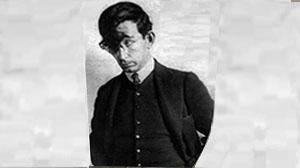
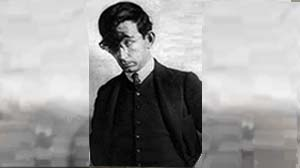
Adding author - Atanas Dalchev

diff --git a/lib/info_assets/dalchev_compositions.dart b/lib/info_assets/dalchev_compositions.dart
@@ -1,0 +1,108 @@
+import 'package:matura_lit/models/author.dart';
+
+import '../models/composition.dart';
+
+List<Composition> dalchevCompositionsList() {
+  return [
+    Composition(
+        id: 1,
+        name: 'Стаята',
+        genre: 'Стихотворение',
+        artisticShapes: [
+          'Стаята',
+          'Огледалото - символ на прозрението',
+          'Спрелият часовник',
+          'Портрети',
+          'Прах',
+          'Есенно слънце',
+          'Махалото',
+          'Стената',
+          'Заключената врата'
+        ],
+        mainSubject:
+            'Условността а съществуването и завръщането към един отминал свят'),
+    Composition(
+        id: 2,
+        name: 'Болница',
+        genre: 'Стихотворение',
+        mainSubject: 'Човешкия живот като път към смъртта',
+        artisticShapes: [
+          'Прозорците',
+          'Часовникът',
+          'Белите Стени',
+          'Белите легла',
+          'Есента'
+        ]),
+    Composition(
+      id: 3,
+      name: 'Прозорец',
+      genre: 'Стихотворение',
+      mainSubject:
+          'красотата и детската чистота са илюзия, възможна само в света на въображението',
+      artisticShapes: [
+        'Прозорецът',
+        'Децата',
+        'Сребърната гора',
+        'Въображението'
+      ],
+    ),
+    Composition(
+      id: 4,
+      name: 'Къщата',
+      genre: 'Стихотворение',
+      mainSubject:
+          'Липсващите връзки на самотника със заобикалящия го свят и невъзможността къщата да се превърне в дом ',
+      artisticShapes: [
+        'Лирическият аз',
+        'Черната сянка',
+        'Мъртвият',
+        'Мрака',
+        'Вятърът',
+        'Вратата'
+      ],
+    ),
+    Composition(
+        id: 5,
+        name: 'Повест',
+        genre: 'Стихотворение',
+        mainSubject: 'Проблема за неизживяния живот',
+        artisticShapes: [
+          'Къщата',
+          'Портретите',
+          'Часовникът',
+          'Огледалото',
+          'Лирическият аз'
+        ]),
+    Composition(
+      id: 6,
+      name: 'Книгите',
+      genre: 'Стихотворение',
+      mainSubject:
+          'Книгата като възможност човека да съзерцава, но същевременно и да отнемат чистотата на емоциите и изживяването на чувствата',
+      artisticShapes: ['Денят', 'Нощта', 'Книгите'],
+    ),
+    Composition(
+      id: 7,
+      name: 'Камък',
+      genre: 'Стихотворение',
+      mainSubject: '"Завистта" на тленния човек към вечния предмет',
+      artisticShapes: [
+        'Камъкът, боговоете, Плътта',
+        'Есента',
+        'Лятото',
+        'Гранитът'
+      ],
+    ),
+    Composition(
+        id: 8,
+        name: 'Дяволско',
+        genre: 'Стихотворение',
+        artisticShapes: [
+          'Часовникът',
+          '12-те кръга',
+          'Небосводът',
+          'Ченият цвят',
+          'Прозорецът'
+        ]),
+  ];
+}

diff --git a/lib/providers/authors_provider.dart b/lib/providers/authors_provider.dart
@@ -8,6 +8,7 @@ import '../info_assets/pelin_compositions.dart';
 import '../info_assets/debelqnov_compositions.dart';
 import '../info_assets/smirnenski_compositions.dart';
 import '../info_assets/milev_compositions.dart';
+import '../info_assets/dalchev_compositions.dart';
 
 // Change Modifier we don't need it
 class Authors {
@@ -125,6 +126,17 @@ class Authors {
       quantifications: ['-'],
       imageUrl: "assets/images/geo_milev.jpg",
       compositions: milevCompositionsList(),
+    ),
+    Author(
+      id: 10,
+      name: 'Атанас Далчев',
+      town: 'Солун',
+      dateOfBirth: DateTime.utc(1904, 6, 12),
+      dateOfDeath: DateTime.utc(1978, 1, 17),
+      periods: ['Диаболизъм'],
+      quantifications: ['Поет', 'Преводач', 'Критик', 'Мислител'],
+      imageUrl: "assets/images/atanas_dalchev.jpg",
+      compositions: dalchevCompositionsList(),
     ),
   ];
 

diff --git a/lib/screens/author_screen.dart b/lib/screens/author_screen.dart
@@ -38,8 +38,6 @@ class AuthorScreen extends StatelessWidget {
                 AuthorBioCard(author: _author),
 
                 AuthorCompositionsCardsBuilder(_author),
-                // Debugging purposes
-                SizedBox(height: 900),
               ],
             ),
           ),
